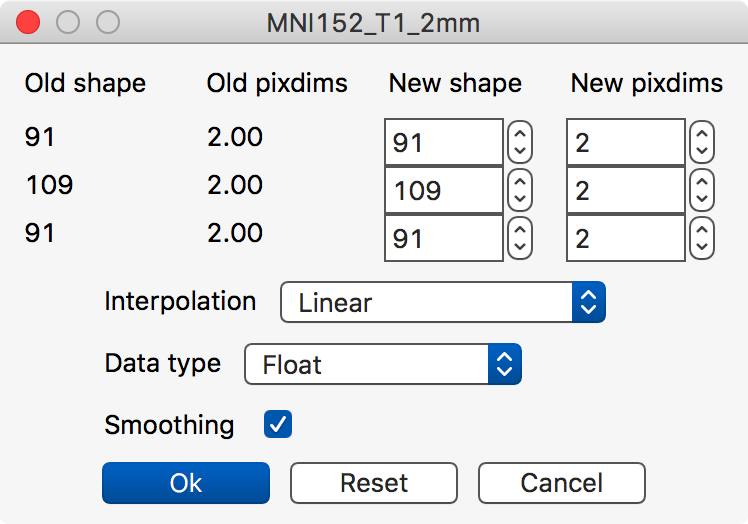
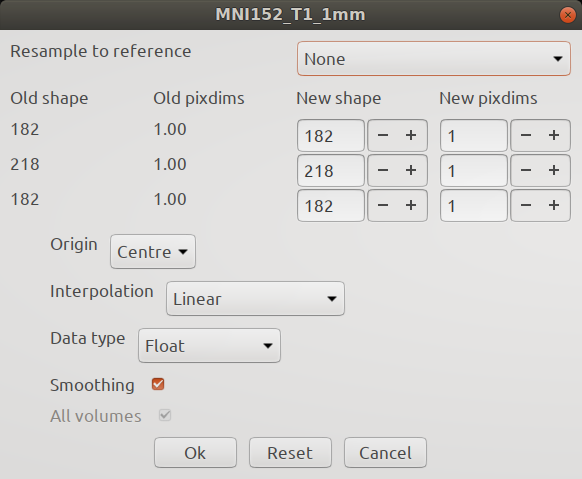
DOC: resample/orient warning

diff --git a/userdoc/troubleshooting.rst b/userdoc/troubleshooting.rst
@@ -105,6 +105,36 @@ Open the :ref:`view settings panel <ortho_lightbox_views_view_settings>` (the
 oriented.
 
 
+My images are aligned in FSLeyes, but other FSL tools complain about orientation!
+---------------------------------------------------------------------------------
+
+FSLeyes projects all of the overlays that you load into a common display
+coordinate system, regardless of their dimensions, orientation, or field of
+view. So two images which have a different resolution or orientation may
+appear to be aligned when you view them in FSLeyes.
+
+However, many FSL tools (and many neuroimage analysis tools) require input
+images to be **voxel-aligned**, so that the same voxel from each input image
+corresponds to the same anatomical location.
+
+When you load images with different orientations into FSLeyes, a warning
+will appear in the location panel:
+
+.. image:: images/troubleshooting_display_space_warning.png
+   :width: 70%
+   :align: center
+
+If you see this warning, and you intend to use the images you are viewing with
+any FSL processing or analysis tools, you may need to resample your images into
+the same space - you can do this within FSLeyes via the :ref:`Resample image
+<tools_resample_image>` tool, using the *Resample to reference* option, or on
+the command-line using ``flirt`` with the ``-applyxfm`` and ``-usesqform``
+options.
+
+You can read more about the different coordinate systems used by FSLeyes
+:ref:`here <display_space>`.
+
+
 There are weird striping artifacts in my image!
 -----------------------------------------------
 

diff --git a/userdoc/tools.rst b/userdoc/tools.rst
@@ -77,7 +77,9 @@ Resample image
 
 The **Resample image** tool allows you to resample the currently selected
 image to a different resolution. You can specify a desired shape via the *New
-shape* inputs, or a desired voxel resolution via the *New pixdims* inputs.
+shape* inputs, or a desired voxel resolution via the *New pixdims* inputs. Or
+you can resample one image into the space of another using the *Resample to
+reference* option.
 
 The **Interpolation** option allows you to choose different interpolation
 options to use during the resampling. If you are resampling a binary mask, you
